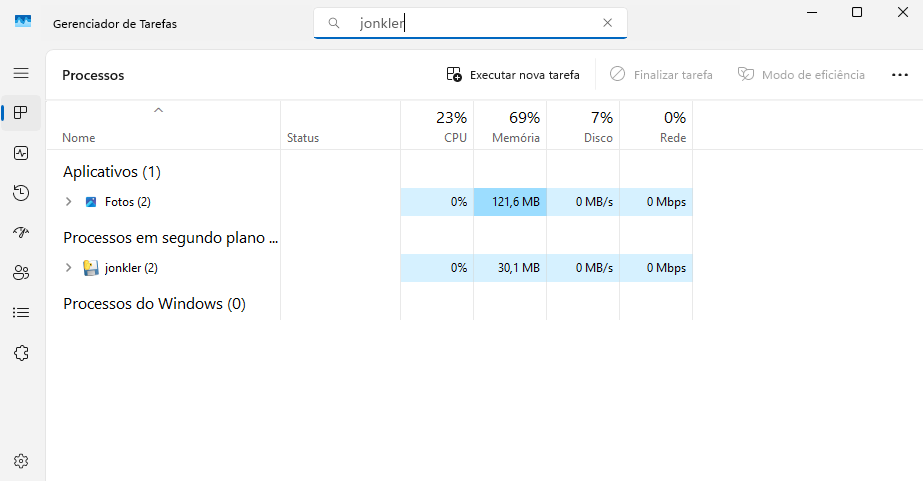
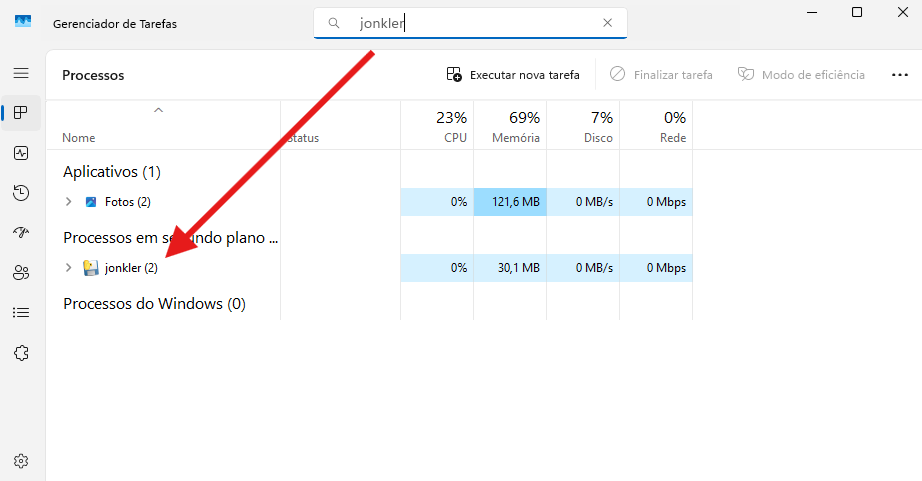
Atualizações no README
- O README contém informações mais úteis, fala sobre o Batman.exe e outros detalhes, ainda
será feita uma revisão mais detalhada para garantir um bom texto.
- Novas tarefas descritas

diff --git a/README.md b/README.md
@@ -1,34 +1,53 @@
 # A joke virus about Jonkler brainrot.
 
-> [!Note]
-> [Clique aqui para ver como fechar o jonkler-exe manualmente!](#como-fechar-o-jonklerexe-x-hocho).
-
 ## Introdução :telescope:
-Esse programa se trata de um joke virus, (vírus de piada), feito com o único objetivo de assustar/irritar ou até mesmo divertir o usuário, ativando aleatoriamente enquanto o usuário utiliza o computador, inspirado no meme brainrot do Jonkler.
+Esse programa se trata de um joke virus, (vírus de piada), feito com o único objetivo de assustar/irritar/divertir ou só atrapalhar o usuário, ativando aleatoriamente enquanto utiliza o computador, inspirado no meme brainrot do Jonkler.
 
-Existem várias versões do meme, mas caso você não conheça [clique aqui](https://youtu.be/gQD2IZItlVk?si=GbXSLz6gw0xp39Fh) para ver uma das versões.
+Existem várias versões do meme, mas caso você não conheça, [clique aqui](https://youtu.be/6KlSYJxTeyk?si=L0f4g1gRkK-nOpOG) para ver uma das versões.
 
 ## Sistemas Operacionais Compatíveis :computer: :window:
-O programa funciona nos seguintes sistemas operacionais:
+Os softwares funciona nos seguintes sistemas operacionais:
 
 - Windows 10
 - Windows 11
 
-O código não funciona no Linux, pois utiliza uma função chamada ```os.startfile()```, que é específica do Windows.
+**O jonkler.exe não funciona no Linux**, já outras versões do Windows, como o 7 ou 8 não foram testadas.
 
-Outras versões do Windows, (como o 7 ou 8) não foram testadas.
+## Funcionamento (jonkler.exe) :game_die: :black_joker:
+Ele inicia um **loop infinito**, onde ele atribui a variável ```dado``` um número aleatório entre 1 a 6 através da função ```random.randint(1, 6)```, após isso, ele verifica:
 
-## Funcionamento :game_die:
-Ele inicia um loop infinito, onde ele atribui a variável ```dado``` um número aleatório entre 1 a 6 através da função ```random.randint(1, 6)```, e se a variável foi igual ao valor 6, então ele abre uma imagem do meme do jonkler e toca o áudio do meme, caso contrário ele não faz nada, depois disso, ele espera um tempo e repete tudo novamente.
+- Se ```dado``` for igual a ```3```, então ele abre uma imagem, toca um áudio relacionado a imagem, abre um meme de uma pomba (ave) e a página da Wikipédia sobre rolas-roxas, (a ave, é claro), depois ele espera alguns segundos e sorteia mais um número aleatório.
 
-O tempo de espera entre os lançamentos do dado é configurado na variável ```delay```, que recebe o tempo de espera em segundos, ou seja, se ```delay = 10```, então ele **espera 10 segundos**.
+- Se ```dado``` foi igual ao valor ```6```, então ele abre uma outra imagem, toca outro áudio e abre um gif do joker, (de uma parte aleatória do filme), depois ele aguarda alguns segundos e sorteia mais um número aleatório.
 
-A ideia é que o programa rode em segundo plano, deixando nenhuma suspeita de que ele está em execução, mas como o código está em desenvolvimento, ele vai abrir um terminal, que mostra o valor da variável ```dado``` e se entrou na condição de ativação.
+- Caso ```dado``` não seja igual a ```3``` ou a ```6```, então ele não faz nada, apenas espera alguns segundos e repete o loop.
+
+O tempo de espera entre os lançamentos do dado é configurado na variável ```delay```, e no momento ```delay``` é igual a ```20```. Isso dá + ou - 1 ativação por minuto.
+
+Tudo isso operando em **segundo plano**.
+
+## Funcionamento (Batman.exe) :bat: :hocho:
+Ele basicamente fecha o jonkler.exe através do seguinte comando:
+
+```taskkill /F /IM jonkler.exe```
+
+E para fechar as imagens, ele utiliza o comando:
+
+```taskkill /F /IM Photos.exe```
+
+Onde:
+
+- ```taskkill``` -> Fechar o processo
+- ```/F```       -> Força a ação
+- ```/IM```      -> Permite buscar pelo nome do programa, ao invés de usar o PID
+- ```<nome do software.exe>``` -> Nome do programa a ser encerrado.
+
+Ele consegue fechar as imagens caso você utilize o **Fotos** da Microsoft como app padrão para abri-las, senão ele apresenta uma mensagem de erro, dizendo que não encontrou as imagens.
+
+E caso o jonkler não esteja aberto, ou o comando tenha apresentado erro, ele exibe o link para acessar o tutorial de como fechar o jonkler.exe manualmente, o mesmo se encontra neste README.
 
 ## Capturas de Tela :camera:
-Quanto mais tempo o programa rodar, mais imagens ele vai abrir.
-
-![jonkler-vscode](readme_assets/jonkler-vscode.png)
+Quanto mais tempo o programa rodar, mais imagens serão abertas.
 
 ![jonkler-varias-instancias](readme_assets/jonkler-varias-instancias.png)
 
@@ -37,31 +56,44 @@ Quanto mais tempo o programa rodar, mais imagens ele vai abrir.
 ![Gerenciador-de-Tarefas](readme_assets/Gerenciador-de-Tarefas-VM.png)
 
 ## Atenção :warning:
-Tudo o que o programa faz pode ser revertido sem precisar de nenhum segredo ou qualquer habilidade de _um grande mago que anda pra cima e para baixo com seus pergaminhos_, tudo o que você precisa saber é como fechar janelas e como abrir o gerenciador de tarefas para encerrar o programa.
+Tudo o que o programa faz pode ser revertido sem precisar de nenhum segredo, _ou qualquer habilidade de um grande mago que anda pra cima e para baixo com seus pergaminhos_, tudo o que você precisa saber é como fechar janelas e como usar o gerenciador de tarefas para encerrar o programa, (caso o Batman.exe não dê conta do recado).
 
 > [!WARNING]
-> <mark>**Mesmo que o programa seja inofensivo, eu não me responsabilizo por qualquer danos causados ao seu computador ou de outras pessoas.**</mark>
+> <mark>**Mesmo que o programa seja inofensivo, eu não me responsabilizo por quaisquer danos causados ao seu computador ou de terceiros.**</mark>
 
-E caso você não saiba como usar o Gerenciador de Tarefas para encerrar um programa, tudo bem, eu te ensino abaixo como fazer isso, passo a passo [clicando aqui](#como-fechar-o-jonklerexe-x-hocho).
+E caso você não saiba como usar o Gerenciador de Tarefas para encerrar um programa, tudo bem, o tutorial se encontra neste README, ou [clicando aqui](#como-fechar-o-jonklerexe-x-hocho). :point_left:
 
-## Possiveis erros de execução :x:
-Segundo alguns testes em outros computadores (Windows 11 e 10), o código pode ser bloqueado pelo **Microsoft Defender SmartScreen**, como exemplifica a imagem abaixo:
+## Como executar o jonkler.exe? :arrow_forward: :black_joker:
+
+Após extrair os arquivos, abra a pasta ```jonkler-virus``` e execute o ```jonkler.exe```, não precisa abrir como Administrador.
+
+Após isso, divirta-se :D
+
+## Possivel erro de execução :x:
+Segundo alguns testes em outros computadores (Windows 10 e 11), o código é bloqueado pelo **Microsoft Defender SmartScreen**, como exemplifica a imagem abaixo:
 
 ![Microsoft Defender SmartScreen](readme_assets/Microsoft-Defender-SmartScreen.png)
 
-_(e não, eu não sei o que fazer para esse erro parar de acontecer)_, mas se a opção estiver disponível, você pode clicar em ```Mais informações``` e depois em ```Executar assim mesmo```, assim o código vai ser executado.
+Se a opção estiver disponível, clique em ```Mais informações``` e depois em ```Executar assim mesmo```, assim o código vai ser executado.
 
-## Como fechar o jonkler.exe :x: :hocho:
+## Como fechar o jonkler.exe? :x: :hocho:
+
+### Forma automática (Batman.exe) :bat:
+Execute o ```Batman.exe```, não precisa abrir como Administrador, ele deve fechar o **jonkler.exe** e as imagens abertas.
+
+**É garantido fechar o jonkler.exe**, mas as abas no navegador terão que ser fechadas manualmente.
+
+### Forma manual :writing_hand:
 Clique com o botão direito do mouse sobre a barra de tarefas e depois clique em ```Gerenciador de Tarefas```, **ou** aperte as teclas ```Ctrl``` + ```Shift``` + ```esc``` simultâneamente.
 
 Após isso, clique na aba ```Processos```, (é a 1° aba), e em ```Processos em Segundo Plano``` procure até encontrar pelo nome ```jonkler.exe```, (que é o nome do programa), para encerrar, clique em cima do nome ```jonkler.exe```, e depois clique em um botão chamado ```Finalizar tarefa```, esse botão está embaixo no Windows 10 e em cima no Windows 11.
 
 Caso não esteja encontrando o processo (e você use o Windows 11), você pode buscar ele de uma forma mais simples, que é pesquisando pelo nome ```jonkler``` na barra de busca do Gerenciador de Tarefas e aí encerrando ele, (como expliquei acima). Ou o código pode ter simplesmente bugado e fechado sozinho, já aconteceu algumas vezes...
 
-Lembre-se, encerrar o programa não fechará as imagens que ele abriu, sendo nescessário fecha elas manualmente.
+Lembre-se, encerrar o programa não fechará as imagens que ele abriu, nem mesmo as abas no navegador, sendo necessário fechar elas manualmente.
 
 ## Agradecimentos :muscle: :pray:
-Agradeço profundamente aos meus amigos que testaram o meu código na máquina deles e compartilharam feedback :heart:
+Agradeço profundamente aos meus amigos que testaram o meu código na máquina deles e compartilharam feedback, amo vocês :heart:
 
 - [davi-goncalves](https://github.com/Davi-Gon)
 - [heittorknielingm](https://github.com/heittorknielingm)
